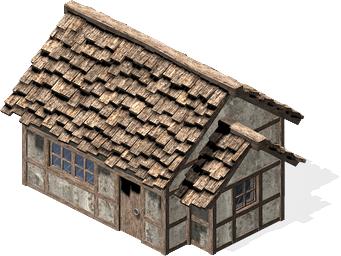
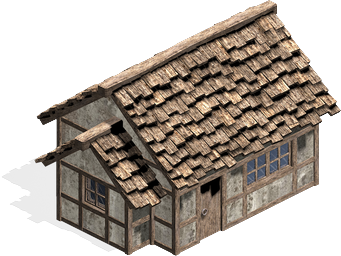
Unflip house building asset so entrance faces citadel gate
- Remove horizontal mirror (flip x) from house processing pipeline
- Regenerate house.png and update lock hash/bounding box
- Bump asset cache-bust versions in WorldScene and thumbnails

diff --git a/apps/client/src/game/scenes/WorldScene.ts b/apps/client/src/game/scenes/WorldScene.ts
@@ -521,9 +521,9 @@ export class WorldScene extends Phaser.Scene {
     }
 
     // Preload generated building assets with cache-busting version (2x resolution)
-    // v=18: house mirrored horizontally so the front entrance faces outward.
+    // v=19: house front entrance facing towards the citadel gate (unflipped).
     // Bump the key whenever a PNG under public/assets/buildings or /resources changes.
-    const v = 'v=18';
+    const v = 'v=19';
     this.load.image('building_TOWN_CENTER', `/assets/buildings/town_center.png?${v}`);
     this.load.image('building_BARRACKS', `/assets/buildings/barracks.png?${v}`);
     // MIL-01: both military branches now ship their own 400x320 sheet. The

diff --git a/apps/client/src/components/buildingThumbnails.ts b/apps/client/src/components/buildingThumbnails.ts
@@ -18,7 +18,7 @@ export const BUILDING_THUMBNAIL: Partial<Record<BuildingType, string>> = {
   BARRACKS: '/assets/buildings/barracks.png?v=3',
   STABLE: '/assets/buildings/stable.png?v=3',
   ARCHERY_RANGE: '/assets/buildings/archery_range.png?v=3',
-  HOUSE: '/assets/buildings/house.png?v=7',
+  HOUSE: '/assets/buildings/house.png?v=8',
   FARM: '/assets/buildings/farm.png?v=3',
   TOWER: '/assets/buildings/tower.png?v=4',
   LUMBER_CAMP: '/assets/buildings/lumber_camp.png?v=1',

diff --git a/CREDITS.md b/CREDITS.md
@@ -109,9 +109,8 @@ gain-corrected. No sprite is redrawn.
 - **Used for:** `assets/buildings/house.png`.
 
 **Changes made.** Cropped to alpha, soft shadow faded out (`alphaFloor: 96`),
-mirrored horizontally so the facade faces the camera, luminance-matched to
-`107.3`, fitted to the 341x256 canvas and anchored bottom-centre. No artwork
-is redrawn.
+luminance-matched to `107.3`, fitted to the 341x256 canvas and anchored bottom-centre.
+No artwork is redrawn.
 
 ### Galata Tower — Bleed
 
